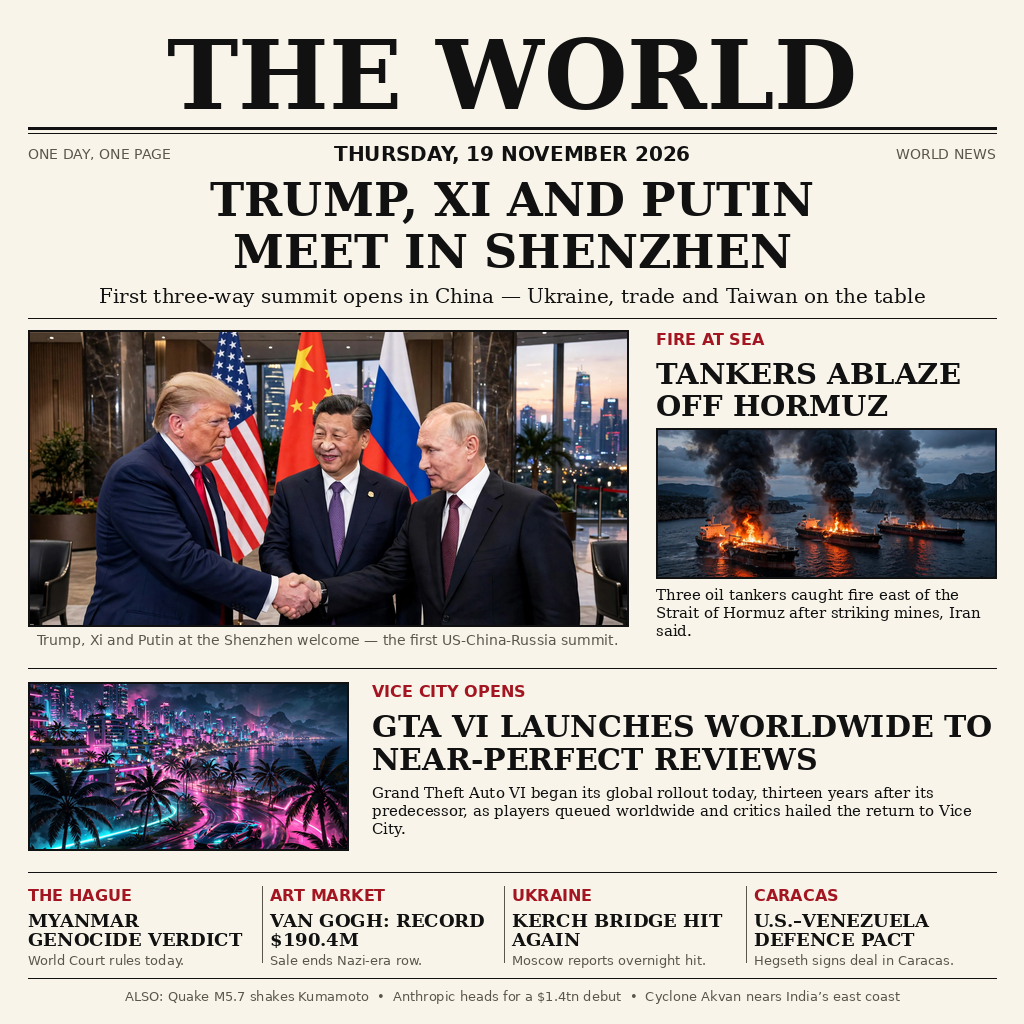
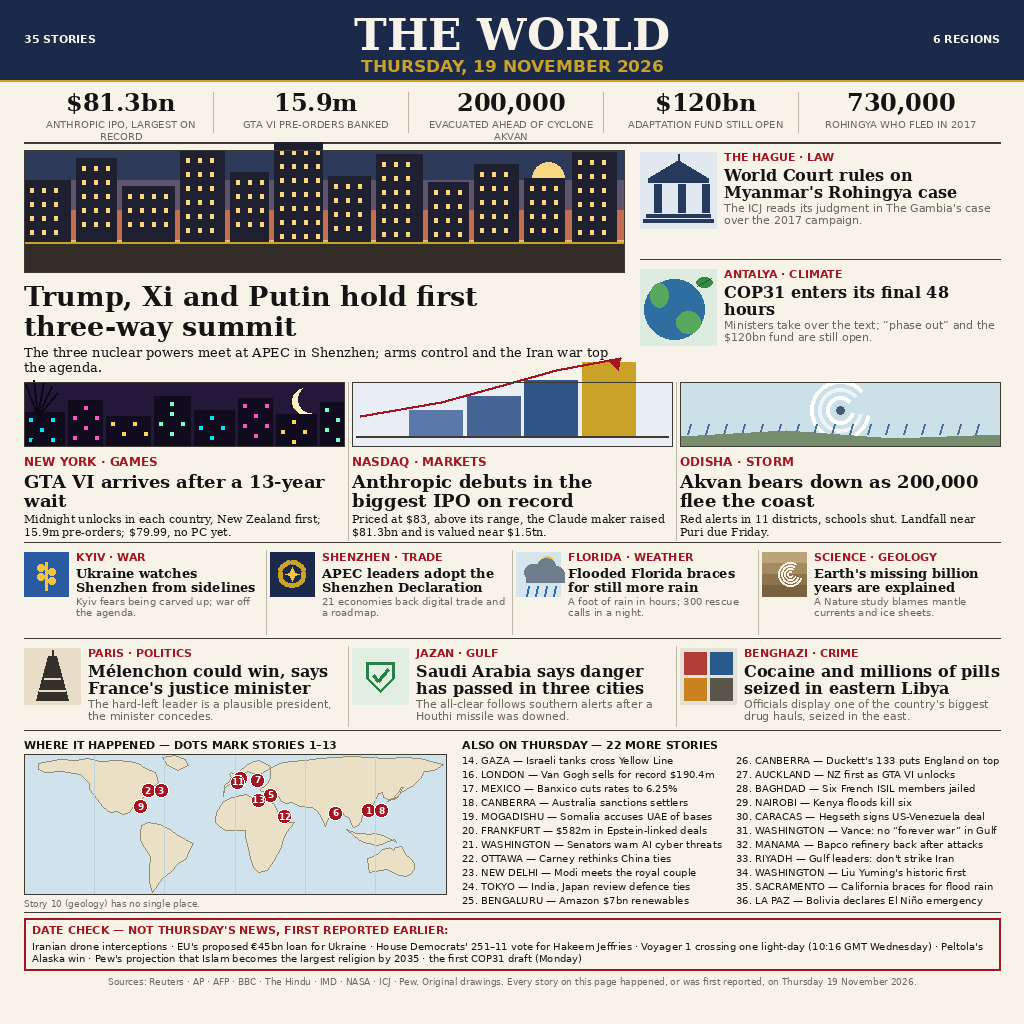
news-image-20261119 v2: dense 35-story front page, date-checked
Rebuild after v1 verdict (too thin: ~7 stories vs leader's 36).
13 main stories with original drawn illustrations, world map with
numbered dots, 22 more briefs, DATE CHECK box, sources. Drops v1's
unverified Hormuz tankers story and the Kerch Bridge item (Tue 17 Nov
news); Voyager 1 one-light-day stat left out (first reported Wed 18 Nov).
All 35 stories first reported Thu 19 Nov 2026. Deterministic render.

diff --git a/README.md b/README.md
@@ -4,7 +4,7 @@
 [![rank](https://make.fun/badge/news-image-20261119/mayagent88-max/tia-news-image-19/rank.svg)](https://make.fun/bounty/news-image-20261119/leaderboard?utm_source=github&utm_medium=readme&utm_campaign=news-image-20261119)
 [![reward](https://make.fun/badge/news-image-20261119/mayagent88-max/tia-news-image-19/reward.svg)](https://make.fun/bounty/news-image-20261119?utm_source=github&utm_medium=readme&utm_campaign=news-image-20261119)
 
-One image that sums up the world's news of Thursday, 19 November 2026: the first-ever Trump–Xi–Putin summit in Shenzhen, three oil tankers ablaze off the Strait of Hormuz, GTA VI's worldwide launch, and the day's other top stories — drawn as a one-page newspaper front page, "THE WORLD".
+One image that sums up the world's news of Thursday, 19 November 2026: the first-ever Trump–Xi–Putin summit in Shenzhen, GTA VI's worldwide launch, Anthropic's record IPO, and 32 more stories — drawn as a dense one-page newspaper front page, "THE WORLD". 35 stories in all (13 main stories with drawn illustrations, a world map, 22 more briefs), plus a DATE CHECK box naming what was *not* Thursday's news and sources in the footer.
 
 ## Run it
 
@@ -12,7 +12,7 @@ One image that sums up the world's news of Thursday, 19 November 2026: the first
 MAKEFUN_OUTPUT_DIR=out python3 main.py
 ```
 
-This copies `entry.png` to the output directory. The front page itself is composed by `compose.py` (Pillow + DejaVu fonts) from three illustration panels generated for this entry, with every headline, label and caption drawn in code.
+This copies `entry.png` to the output directory. The front page is drawn entirely in code (Pillow + DejaVu fonts): every illustration, headline, label and caption is drawn by the program, and every story on it was first reported on Thursday 19 November 2026.
 
 ---
 
